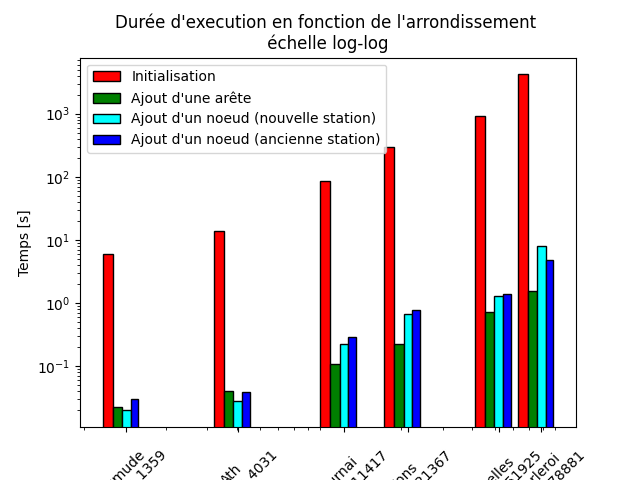
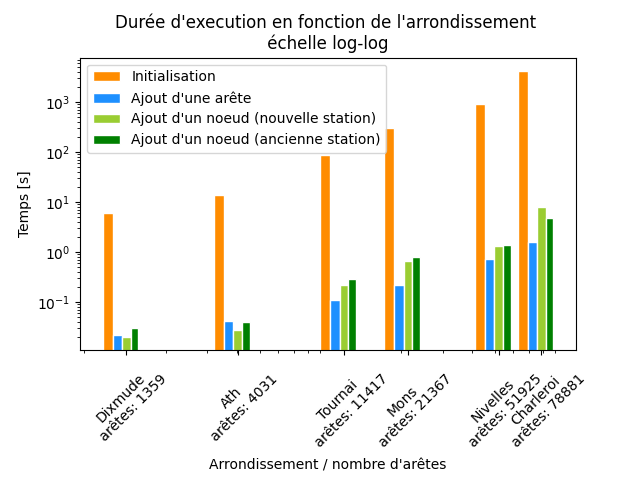
Performence

diff --git a/Program/Performance/GraphAPSP.py b/Program/Performance/GraphAPSP.py
@@ -1,6 +1,14 @@
 import csv
 import numpy as np
 import matplotlib.pyplot as plt
+import pandas as pd
+import plotly.express as px
+import seaborn as sns
+import math
+
+
+
+
 
 def graph_TimeInterval():
     data_path = "/Users/DimiS/Documents/Gotta_go_fast/Project/Program/Performance/Result"
@@ -23,11 +31,18 @@ def graph_TimeInterval():
             bus_edges.append(int(row["edge"]))
             bus_nodes.append(int(row["node"]))
 
-    barWidth = 1
-    plt.bar(starts, train_edges, color='#2d7f5e', edgecolor='white', width=barWidth)
-    plt.show()
-    plt.bar(starts, bus_edges,color='#2d7f5e', edgecolor='white', width=barWidth)
+    barWidth = 0.9
+
+    #plt.show()
+    plt.bar(starts, bus_edges,color='dodgerblue',  width=barWidth)
+    #plt.title('Variation du nombre de connexions durant la journée')
+    plt.xlabel('Temps   [ heure ]')
+    plt.ylabel('Nombre de connexions')
+    #plt.bar(starts, train_edges, color='darkorange', edgecolor='darkorange', width=barWidth)
+
     #plt.xticks(y_pos, bars)
+
+    plt.savefig("./Result/edgeTime.png")
     plt.show()
 
     #plt.bar(starts, train_nodes, color='#557f2d', edgecolor='white', width=barWidth)
@@ -38,7 +53,6 @@ def graph_TimeInterval():
 
 def graph_Node_by_Arrondi(tr):
     data_path = "/Users/DimiS/Documents/Gotta_go_fast/Project/Program/Performance/Result"
-
 
     with open(data_path+"/ArrondVertexEdge.csv", newline='') as csvfile:
         file = csv.DictReader(csvfile, delimiter=';')
@@ -56,25 +70,63 @@ def graph_Node_by_Arrondi(tr):
         arrEdge = list(zip(arrond, edges))
         arrEdge.sort(key = lambda x : x[1])
 
+    with open(data_path + "/ArrondVertexEdgeAll.csv", newline='') as csvfile:
+        file = csv.DictReader(csvfile, delimiter=';')
+        print(file.fieldnames)
+        # Make a fake dataset
+        arrond, edges, nodes = [], [], []
+        for row in file:
+            if row["transport"] == tr:
+                arrond.append(row["arrondissementName"])
+                edges.append(int(row["edge"]))
+                nodes.append(int(row["node"]))
+
+        allArrNode = list(zip(arrond, nodes))
+        allArrNode.sort(key=lambda x: x[1])
+        allArrEdge = list(zip(arrond, edges))
+        allArrEdge.sort(key=lambda x: x[1])
+
         barWidth = 1
-        plt.bar([x[0] for x in arrNode], [x[1] for x in arrNode], color='#2d7f5e', edgecolor='white', width=barWidth)
-        plt.title("Nombre de stations de train par arrondissement")
+        plt.bar([x[0] for x in allArrNode], [x[1] for x in allArrNode], color='dodgerblue', edgecolor='white', width=barWidth, label= 'non-sélectionné')
+        plt.bar([x[0] for x in arrNode], [x[1] for x in arrNode], color='darkorange', edgecolor='white', width=barWidth,
+                label='sélectionné')
+        plt.title("Nombre de stations de transport en commun par arrondissement")
         plt.xlabel("Arrondissement")
         plt.xticks(rotation=90)
         plt.ylabel("Nombre de stations")
-        plt.yscale('log')
+        #plt.yscale('log')
+        plt.legend()
+        plt.gcf().subplots_adjust(bottom=0.40)
+        plt.savefig('./Result/sationsArrond.png', format='png')
         plt.show()
 
 
         barWidth = 1
-        plt.bar([x[0] for x in arrEdge], [x[1] for x in arrEdge], color='#2d7f5e', edgecolor='white', width=barWidth)
-        plt.title("Nombre de connexion de train par arrondissement")
+        plt.bar([x[0] for x in allArrEdge], [x[1] for x in allArrEdge], color='dodgerblue', edgecolor='white', width=barWidth, label= 'non-sélectionné')
+        plt.bar([x[0] for x in arrEdge], [x[1] for x in arrEdge], color='darkorange', edgecolor='white', width=barWidth,
+                label='sélectionné')
+        plt.title("Nombre de connexion de transport en commun par arrondissement")
         plt.xlabel("Arrondissement")
         plt.xticks(rotation=90)
+        plt.ylim([0,200000])
+
         plt.ylabel("Nombre de connexions")
-        plt.yscale('log')
+        #plt.yscale('log')
+        plt.legend()
+        plt.gcf().subplots_adjust(bottom=0.40)
+        plt.savefig('./Result/connexArrond.png', format='png')
         plt.show()
 
+
+
+        plt.scatter([x[1] for x in allArrNode],[x[1] for x in allArrEdge], edgecolors='dodgerblue', label= 'non-sélectionné')
+        plt.scatter([x[1] for x in arrNode], [x[1] for x in arrEdge], edgecolors='darkorange', label='sélectionné')
+        plt.title('Relation entre le nombre de station et de connexions')
+        plt.xlabel("Nombre de stations")
+        plt.ylabel("Nombre de connexions")
+        plt.legend()
+        plt.savefig('./Result/sationsConnex.png')
+        plt.show()
 
 
 def perf_graph():
@@ -131,14 +183,14 @@ def perf_graph():
         r6 = [x + 5 * barWidth for x in r1]
 
         # Create blue bars
-        plt.bar(r1, edge_mean[tr], width=barWidth, color='green', edgecolor='black',
+        plt.bar(r1, edge_mean[tr], width=barWidth, color='dodgerblue', edgecolor='white',
                  label='Ajout d\'une arête')
 
         # Create cyan bars
-        plt.bar(r2, new_vertex_mean[tr], width=barWidth, color='cyan', edgecolor='black',
+        plt.bar(r2, new_vertex_mean[tr], width=barWidth, color='yellowgreen', edgecolor='white',
                  label='Ajout d\'un noeud (nouvelle station)')
 
-        plt.bar(r3, old_vertex_mean[tr], width=barWidth, color='blue', edgecolor='black',
+        plt.bar(r3, old_vertex_mean[tr], width=barWidth, color='green', edgecolor='white',
                   label='Ajout d\'un noeud (ancienne station)')
 
         #plt.bar(r4, static_mean[tr], width=barWidth, color='red', edgecolor='black',
@@ -155,9 +207,11 @@ def perf_graph():
         plt.ylabel("Temps (s)")
         plt.xticks(r2, [arrond[tr][i] + "\n arêtes: " + str(edges[i]) for i in range(len(arrond[tr]))], rotation=45)
         plt.legend()
-        plt.show()
+        plt.gcf().subplots_adjust(bottom=0.27)
+
 
         plt.savefig("./Result/timeAdding.png")
+        plt.show()
 
     #plt.bar(starts, train_nodes, color='#557f2d', edgecolor='white', width=barWidth)
     #plt.show()
@@ -219,14 +273,14 @@ def perf_graph2():
         r5 = [x +2*x / barWidth for x in r0]
         r6 = [x + 5 * barWidth for x in r1]
 
-        plt.bar(r1, static_mean[tr], width=[e / barWidth for e in edges], color='red', edgecolor='black',
+        plt.bar(r1, static_mean[tr], width=[e / barWidth for e in edges], color='darkorange', edgecolor='white',
                 label='Initialisation')
-        plt.bar(r2, edge_mean[tr], width=[e/barWidth for e in edges], color='green', edgecolor='black',
+        plt.bar(r2, edge_mean[tr], width=[e/barWidth for e in edges], color='dodgerblue', edgecolor='white',
                  label='Ajout d\'une arête')
-        plt.bar(r3, new_vertex_mean[tr], width=[e/barWidth for e in edges], color='cyan', edgecolor='black',
+        plt.bar(r3, new_vertex_mean[tr], width=[e/barWidth for e in edges], color='yellowgreen', edgecolor='white',
                  label='Ajout d\'un noeud (nouvelle station)')
 
-        plt.bar(r4, old_vertex_mean[tr], width=[e/barWidth for e in edges], color='blue', edgecolor='black',
+        plt.bar(r4, old_vertex_mean[tr], width=[e/barWidth for e in edges], color='green', edgecolor='white',
                  label='Ajout d\'un noeud (ancienne station)')
 
 
@@ -250,9 +304,10 @@ def perf_graph2():
         plt.xticks(r3, [arrond[tr][i] + "\n arêtes: " + str(edges[i]) for i in range(len(arrond[tr]))], rotation=45)
         plt.yscale('log')
         plt.legend()
-        #plt.show()
+        plt.gcf().subplots_adjust(bottom=0.27)
 
         plt.savefig("./Result/timeAllLogLog.png")
+        plt.show()
 
     #plt.bar(starts, train_nodes, color='#557f2d', edgecolor='white', width=barWidth)
     #plt.show()
@@ -262,10 +317,69 @@ def perf_graph2():
 
 
 
+def time_effectInit():
+    data = pd.read_csv("./Result/WalkingTimeEffectInit2.csv",delimiter=';')
+    #data.plot(kind='bar')
+
+    sns.lmplot("max_time", "value", data=data,hue='localisation',legend=False, ci=None) #, fit_reg=False,  col_wrap=2
+    plt.legend(loc='upper left')
+    plt.ylabel("Temps [seconds]")
+    plt.xlabel("Temps maximum de marche [minutes]")
+
+    plt.savefig("./Result/WalkingTimeEffectInit.png")
+    plt.show()
+    #fig = plt.scatter(data, x="max_time", y="value")
+    #fig.show()
+
+def time_effectVertex():
+    data = pd.read_csv("./Result/WalkingTimeEffectVertex2.csv",delimiter=';')
+    #data.plot(kind='bar')
+
+    sns.lmplot("max_time", "mean", data=data,hue='localisation',legend=False, ci=None) #, fit_reg=False,  col_wrap=2
+    plt.legend(loc='upper left')
+    plt.ylabel("Temps [seconds]")
+    plt.xlabel("Temps maximum de marche [minutes]")
+
+    plt.savefig("./Result/WalkingTimeEffectVertex.png")
+    plt.show()
+    #fig = plt.scatter(data, x="max_time", y="value")
+    #fig.show()
+
+
+def time_effectInitRatio():
+    data = pd.read_csv("./Result/WalkingTimeEffectInit2.csv",delimiter=';')
+    #data.plot(kind='bar')
+    means = [sum(data["value"][i*13:i*13+13])/13 for i in range(4)]
+    data["ratio"] = [v/means[i] for i in range(4) for v in data["value"][i*13:i*13+13]]
+    sns.lmplot("max_time", "ratio", data=data,hue='localisation',legend=False,ci = None) #, fit_reg=False,  col_wrap=2
+    plt.legend(loc='upper left')
+    plt.ylabel("Ratio : temps/temps moyen")
+    plt.xlabel("Temps maximum de marche [minutes]")
+
+    plt.savefig("./Result/WalkingTimeEffectInitRatio.png")
+    plt.show()
+
+
+def time_effectVertexRatio():
+    data = pd.read_csv("./Result/WalkingTimeEffectVertex2.csv",delimiter=';')
+    #data.plot(kind='bar')
+    means = [sum(data["mean"][i*13:i*13+13])/13 for i in range(4)]
+    data["ratio"] = [v/means[i] for i in range(4) for v in data["mean"][i*13:i*13+13]]
+    sns.lmplot("max_time", "ratio", data=data,hue='localisation',legend=False, ci = None) #, fit_reg=False,  col_wrap=2
+    plt.legend(loc='upper left')
+    plt.ylabel("Ratio : temps/temps moyen")
+    plt.xlabel("Temps maximum de marche [minutes]")
+
+    plt.savefig("./Result/WalkingTimeEffectEdgeRatio.png")
+    plt.show()
+
 if __name__ == '__main__':
     #graph_TimeInterval()
-    #graph_Node_by_Arrondi(tr = "train_only")
+    #graph_Node_by_Arrondi(tr="train_only")
     #graph_Node_by_Arrondi(tr="train_bus")
     #perf_graph()
     #perf_graph2()
-    pass
+    time_effectInit()
+    time_effectVertex()
+    time_effectInitRatio()
+    time_effectVertexRatio()

diff --git a/Program/Performance/Dynamic_pref.py b/Program/Performance/Dynamic_pref.py
@@ -74,7 +74,7 @@ def reduce_all():
 
 def edge_node_by_arrondissement(names,transports):
     # ne compte pas le arrete des trajet à pied ni rester sur place
-    out = open(result_path + "/ArrondVertexEdge.csv","w")
+    out = open(result_path + "/ArrondVertexEdgeAll.csv","w")
     out.write("transport;arrondissementName;node;edge\n")
     for arr in names:
         for tr in transports:
@@ -199,25 +199,31 @@ def time_static_dynamic(names, transports):
 
 
 def max_walking_time_effect(names, transports):
-    out = open(result_path + "/WalkingTimeEffect.csv", "w")
-    out.write("transport;localisation;max_time;mean;all\n")
-    for max_walking_time in range(0, 60, 5):
-        walking_speed = 3.2
-        MAX_TIME = 12 * 60
-
+    out1 = open(result_path + "/WalkingTimeEffectVertex.csv", "w")
+    out1.write("transport;localisation;max_time;mean;all\n")
+    out2 = open(result_path + "/WalkingTimeEffectInit.csv", "w")
+    out2.write("transport;localisation;max_time;value\n")
+    for n in names:
         for tr in transports:
-            for n in names:
-                print(n)
-                times = []
+            for max_walking_time in range(0, 61, 5):
+                walking_speed = 3.2
+                MAX_TIME = 12 * 60
+                print(n,"  ",max_walking_time)
+
                 param = DataManager.produce_data(data_path, n, tr, max_walking_time, walking_speed, MAX_TIME)
 
                 # Vertex old add
+                start_time = time.time()
                 APSP = Dynamic_APSP(param)
+                t = time.time() - start_time
+                out2.write("{};{};{};{}\n".format(tr, n, max_walking_time, t))
+
+                times = []
                 for i in range(50):
                     start_time = time.time()
                     generate_random_vertex_old_pos(APSP)
                     times.append(time.time() - start_time)
-                out.write("{};{};{};{};{}\n".format(tr, n, max_walking_time, sum(times) / 50, times))
+                out1.write("{};{};{};{};{}\n".format(tr, n, max_walking_time, sum(times) / 50, times))
 
 
 if __name__ == '__main__':
@@ -232,11 +238,11 @@ if __name__ == '__main__':
              'Nivelles', 'Ostende', 'Philippeville', 'Roulers', 'Saint-Nicolas', 'Soignies', 'Termonde', 'Thuin',
              'Tielt', 'Tongres', 'Tournai', 'Turnhout', 'Verviers', 'Virton', 'Waremme', 'Ypres']
 
-    names2 = ['Dixmude','Ath','Tournai','Mons','Nivelles', 'Charleroi']#, 'Liège', 'Bruxelles-Capitale']
+    names2 = ['Charleroi']#'Dixmude','Ath','Tournai','Mons','Nivelles', ]#', 'Liège', 'Bruxelles-Capitale']
     transports = ["train_bus"] #,"bus_only","train_bus"]
-    edge_node_by_arrondissement(names2, transports)
+    #edge_node_by_arrondissement(names, transports)
 
     #time_static_dynamic(names2, transports)
-    #max_walking_time_effect(names2, ["train_bus"])
+    max_walking_time_effect(names2, ["train_bus"])
 
 
